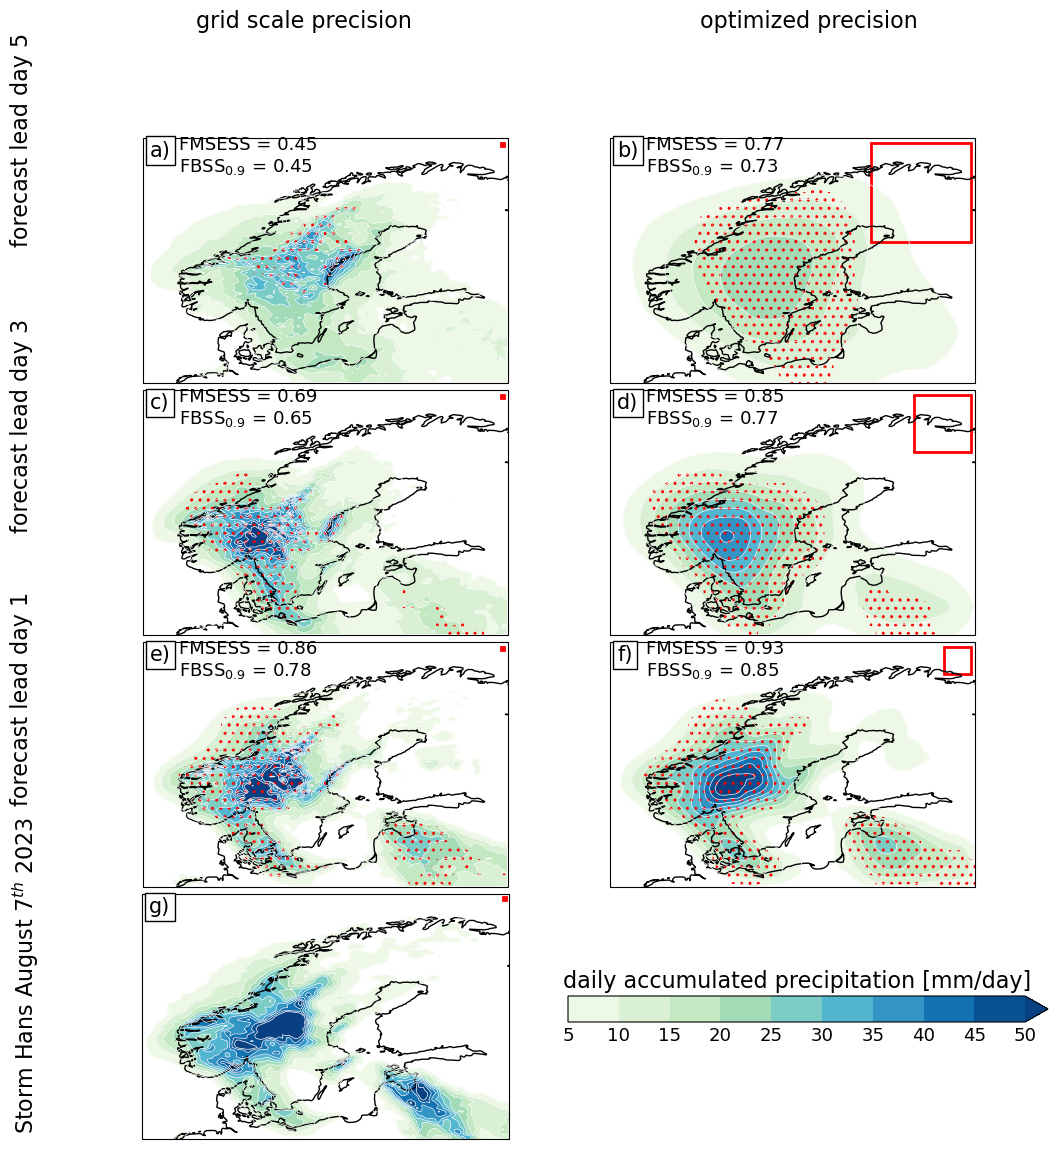
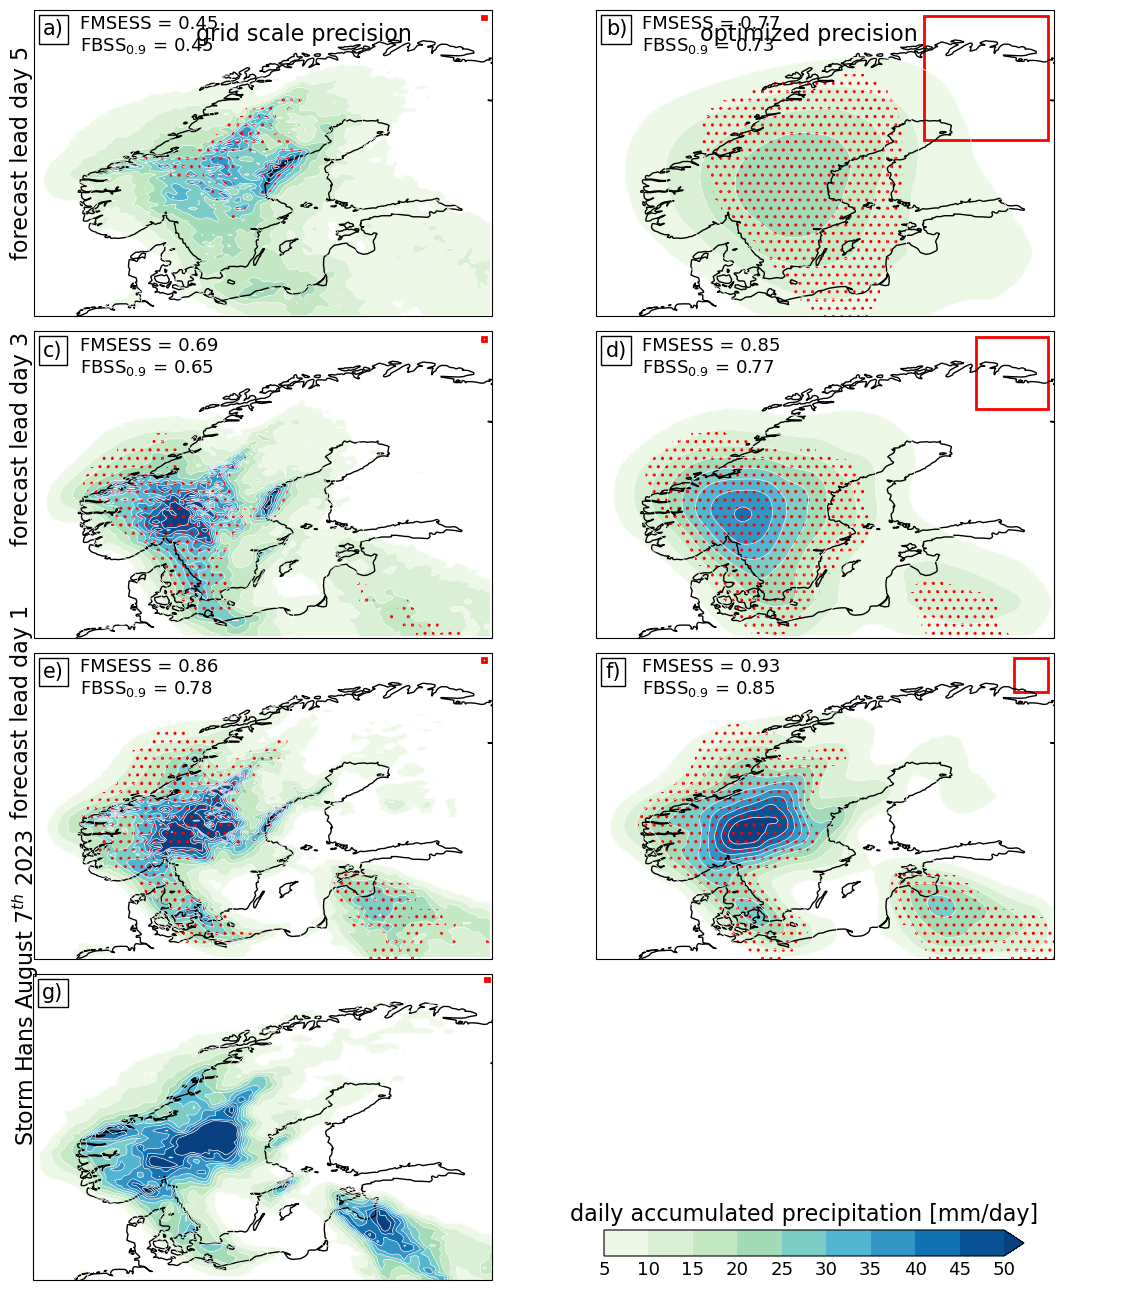
update

diff --git a/code/plot/test.py b/code/plot/test.py
@@ -89,8 +89,11 @@ figsize  = np.array([12,13])
 fig,ax   = plt.subplots(nrows=4,ncols=2,figsize=(figsize[0],figsize[1]),subplot_kw={'projection': ccrs.PlateCarree(central_longitude=0.0)})
 ax       = ax.ravel()
 
+
 #fig.subplots_adjust(right=0.925, left=0.075,top=0.96,hspace=0.03,wspace=0.01)
-fig.subplots_adjust(hspace=0.03,wspace=0.01)
+#fig.subplots_adjust(hspace=0.03,wspace=0.01)
+fig.subplots_adjust(top=0.95, bottom=0.05, left=0.05, right=0.98, hspace=0.02, wspace=0.02)
+
 
 title1 = r'a) 1 gridpoint$^2$ precision'
 title2 = r'b) 33 gridpoint$^2$ precision'
@@ -117,7 +120,8 @@ setup_subplot_xy(7, ax[6], da5['EFI'], da7[variable], clevs, cmap, fontsize, 'g)
 
 ax[7].set_frame_on(False)
 
-cbar_ax = fig.add_axes([0.52, 0.2, 0.4, 0.02])
+#cbar_ax = fig.add_axes([0.52, 0.2, 0.4, 0.02])
+cbar_ax = fig.add_axes([0.55, 0.03, 0.35, 0.02])
 cb = fig.colorbar(p, cax=cbar_ax, orientation='horizontal',ticks=clevs, pad=0.025)
 cb.ax.tick_params(labelsize=fontsize+2, size=0)
 cb.ax.set_title('daily accumulated precipitation [mm/day]', fontsize=fontsize+5,y=1.01)
@@ -129,6 +133,7 @@ fig.text(0.055,0.58,'forecast lead day 3',rotation=90,fontsize=fontsize+5)
 fig.text(0.055,0.37,'forecast lead day 1',rotation=90,fontsize=fontsize+5)
 fig.text(0.055,0.12,r'Storm Hans August 7$^{th}$ 2023',rotation=90,fontsize=fontsize+5)
 
+plt.tight_layout()
 
 if write2file: plt.savefig(path_out + figname_out,bbox_inches='tight')
 plt.show()
